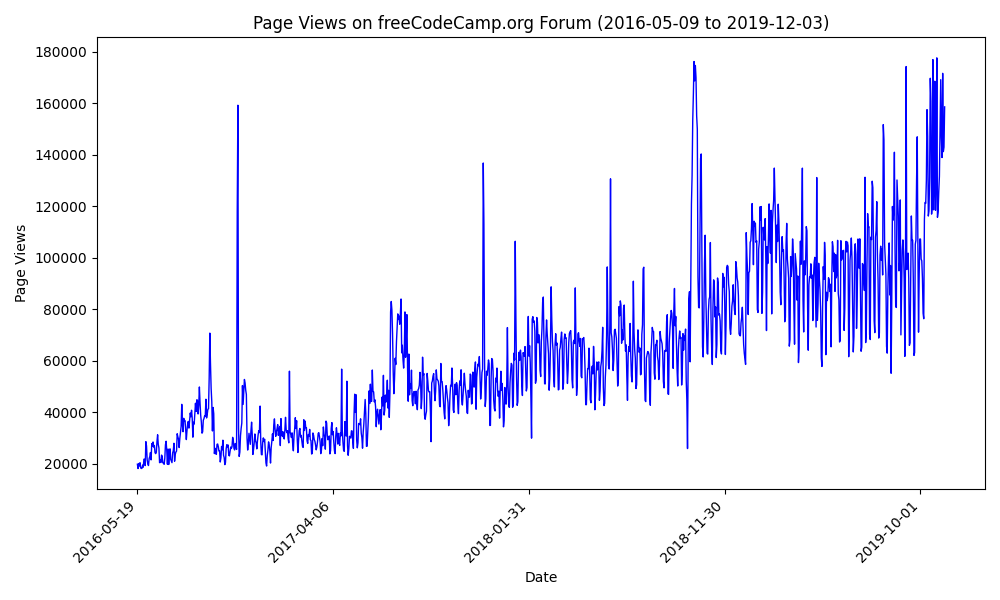
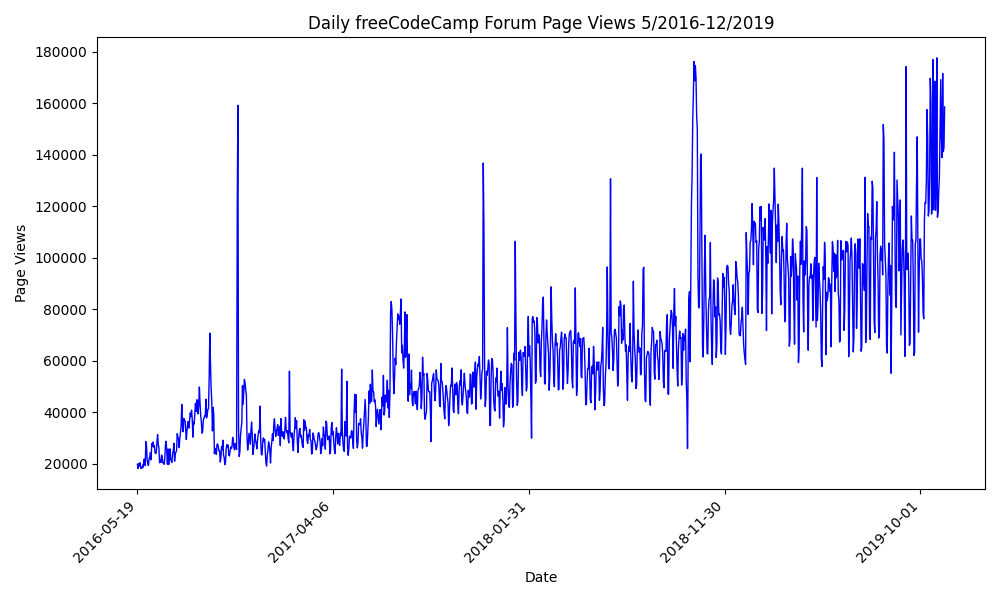
Task # 2

Changed region(s): [[0.248, 0.03, 0.837, 0.06]]

diff --git a/time_series_visualizer.py b/time_series_visualizer.py
@@ -13,7 +13,7 @@ df.set_index('date', inplace=True)
 df = df[(df['value'] >= df['value'].quantile(0.025)) &
         (df['value'] <= df['value'].quantile(0.975))]
 
-print(df)
+# print(df)
 
 def draw_line_plot():
     # Draw line plot
@@ -22,7 +22,7 @@ def draw_line_plot():
     
     ax.set_xlabel('Date')
     ax.set_ylabel('Page Views')
-    ax.set_title('Page Views on freeCodeCamp.org Forum (2016-05-09 to 2019-12-03)')
+    ax.set_title('Daily freeCodeCamp Forum Page Views 5/2016-12/2019')
     plt.xticks(rotation=45, ha='right')    
     ax.xaxis.set_major_locator(MaxNLocator(5))
 
@@ -35,16 +35,32 @@ def draw_line_plot():
 
 def draw_bar_plot():
     # Copy and modify data for monthly bar plot
-    df_bar = None
+    df_bar = df.copy()  
+
+    df_bar.index = pd.to_datetime(df_bar.index)
+    df_bar['year'] = df_bar.index.year
+    df_bar['month'] = df_bar.index.month_name()
+
+    print(df_bar)
+    df_avg = df_bar.groupby(['year', 'month'])['value'].mean().unstack()
+    month_order = ['January', 'February', 'March', 'April', 'May', 'June', 'July', 'August', 'September', 'October', 'November', 'December']
+    df_avg = df_avg.reindex(columns=month_order)
 
     # Draw bar plot
+    fig, ax = plt.subplots(figsize=(10, 7))
+    df_avg.plot(kind='bar', ax=ax)
+    ax.set_xlabel('Years')
+    ax.set_ylabel('Average Page Views')
+    ax.set_title('Average Daily Page Views by Month')
+    ax.legend(title='Months', labels=month_order, loc='upper left')
 
-
-
-
+    plt.xticks(rotation=45)
+    plt.tight_layout()
 
     # Save image and return fig (don't change this part)
     fig.savefig('bar_plot.png')
+    plt.show()
+
     return fig
 
 def draw_box_plot():
